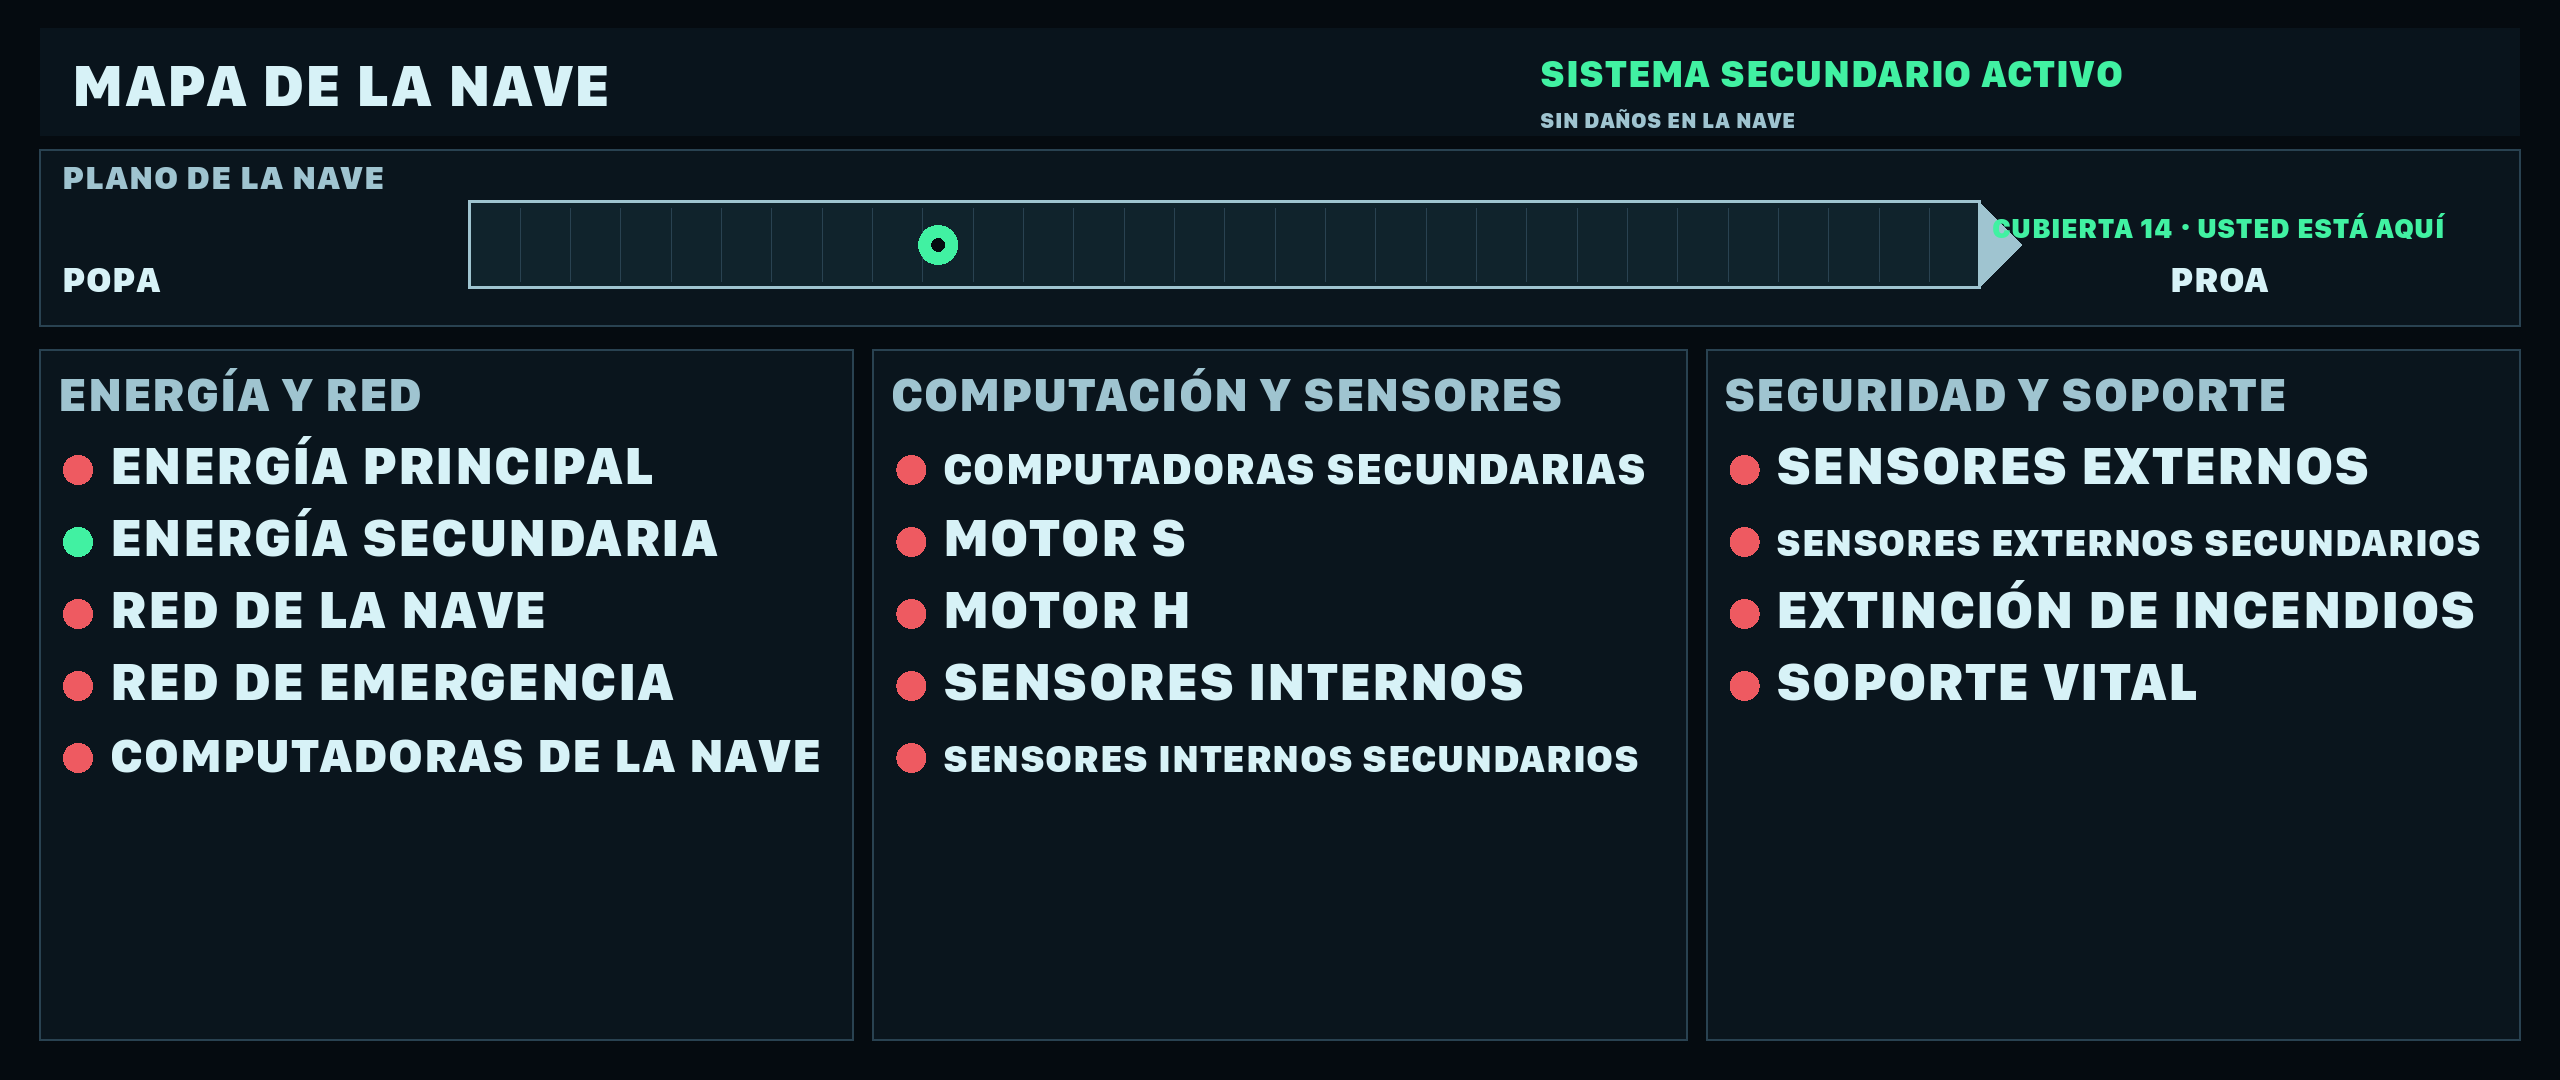
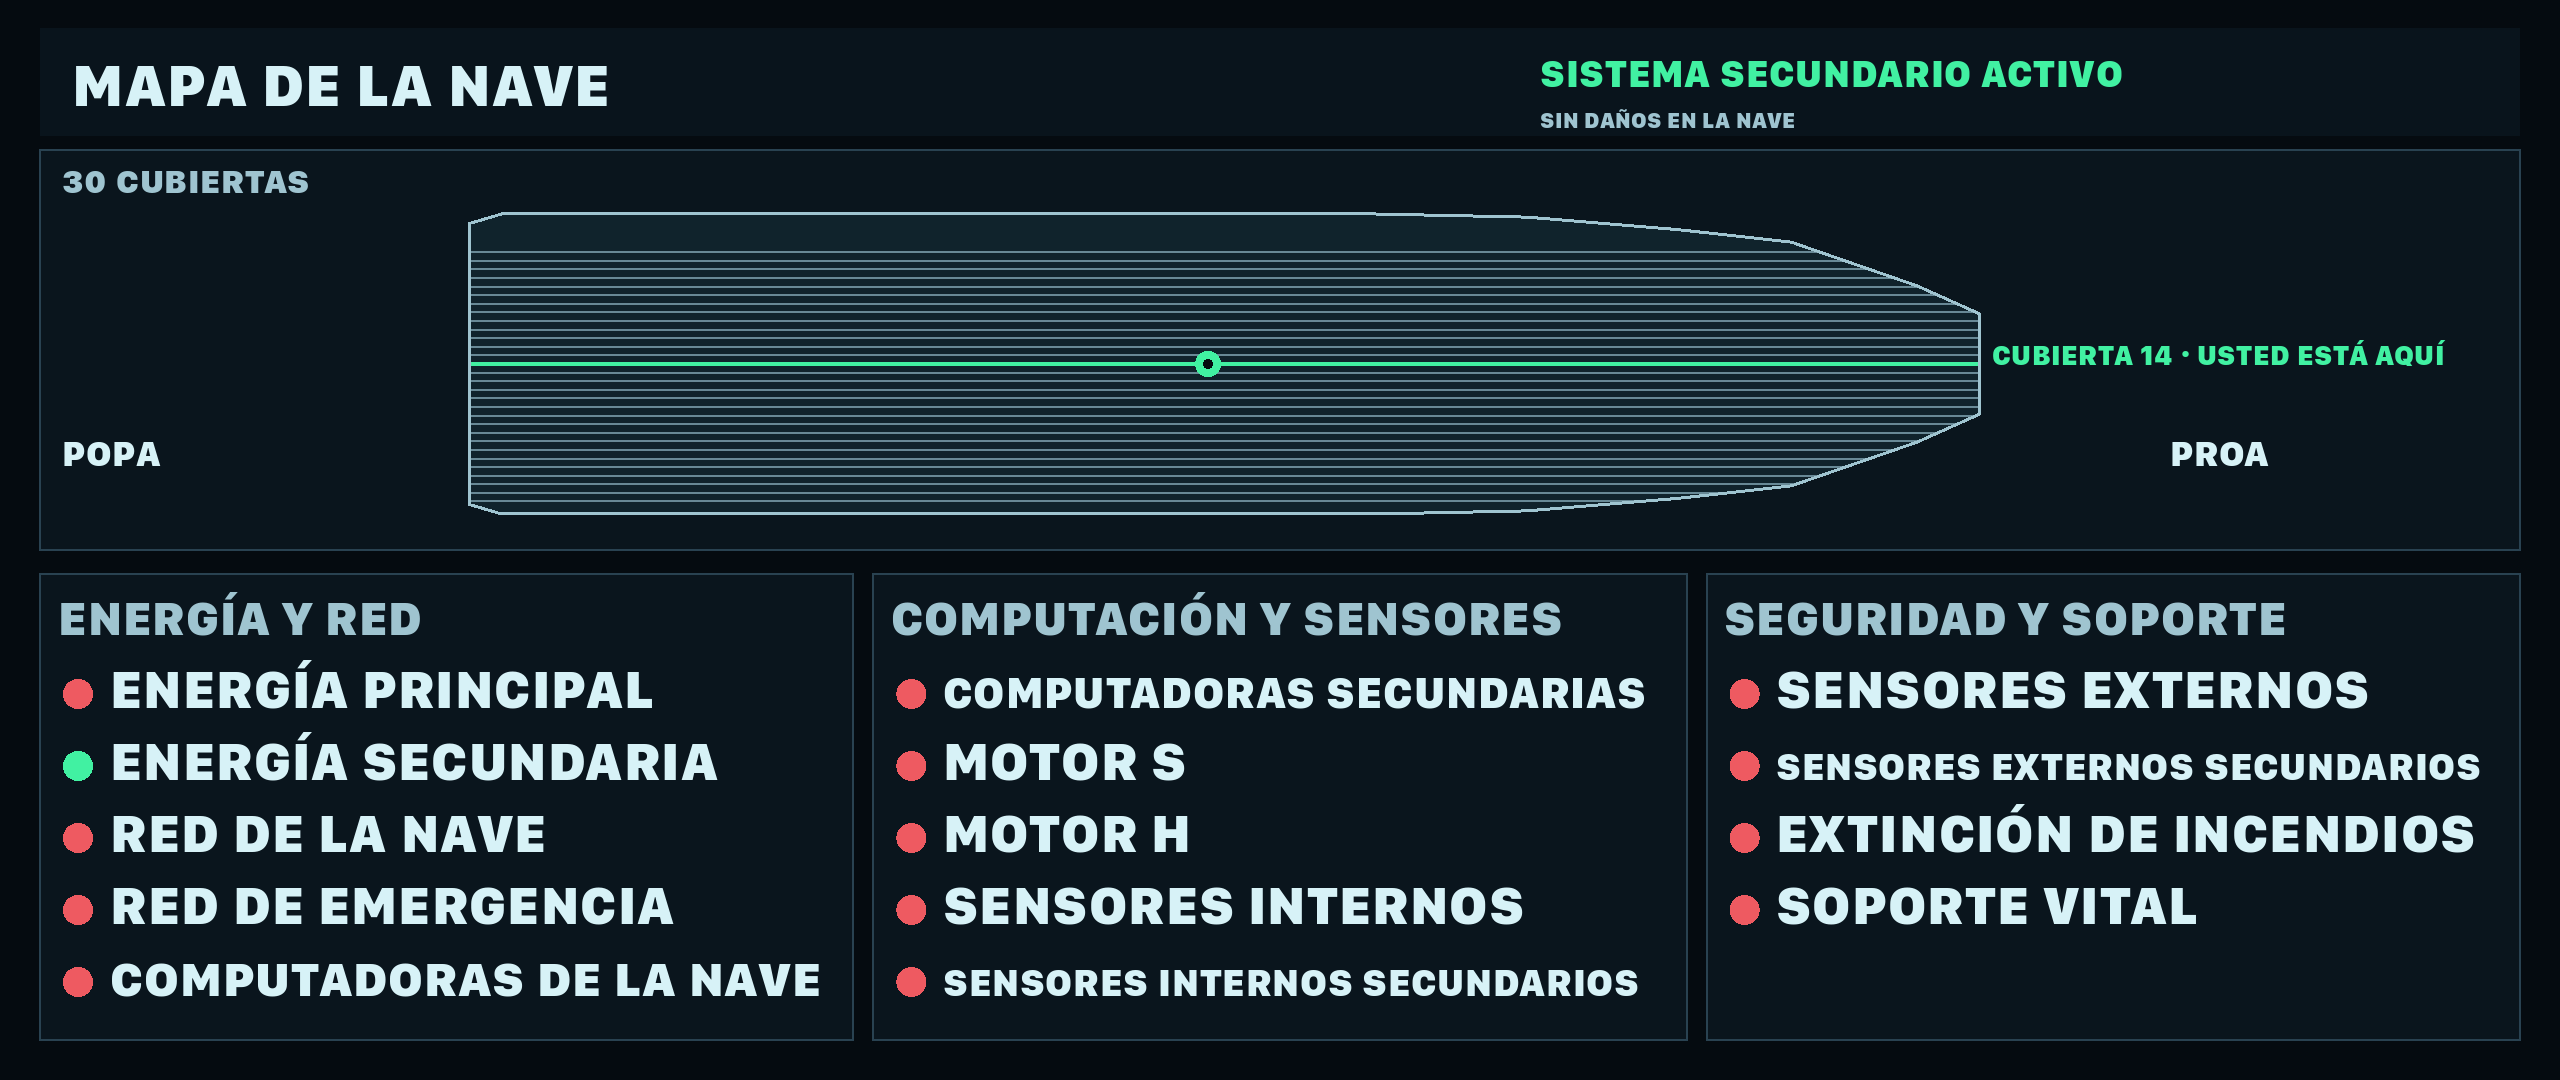
Restore dark console glass and the multi-deck status board

diff --git a/docs/dev/status-board.md b/docs/dev/status-board.md
@@ -14,6 +14,15 @@ uses three systems columns. Keep the 40 px render-ink perimeter, verify no ink
 intersections, and preserve identical layout geometry in both languages.
 `StatusBoardData.MINIMUM_ROW_CELL_PX` is the minimum systems-row cell height.
 
+The main drawing is a side elevation, with stern left and bow right. Its hull
+profile, 30 deck levels and 5.5 m floor pitch come from
+`docs/art/ship/3d/ship_atlas.json` through `StatusBoardData.side_elevation()`.
+D14 is green, with the location marker on its floor line. Both languages name
+the deck count; native quantities use octal Naleya glyphs. The 300 px-high hull
+maps each deck pitch to 8.59 px. The systems keep their 60 px row cells in the
+three columns below it. There is no additional plan inset, so neither the deck
+lines nor the systems rows need to shrink.
+
 For a 1600 × 900 capture with a 60-degree vertical field of view, a front-facing
 screen at distance `d` projects to `900 × 1.02 / (2 × d × tan(30°))` pixels
 tall. Each texture pixel projects to that value divided by 1080. This gives
